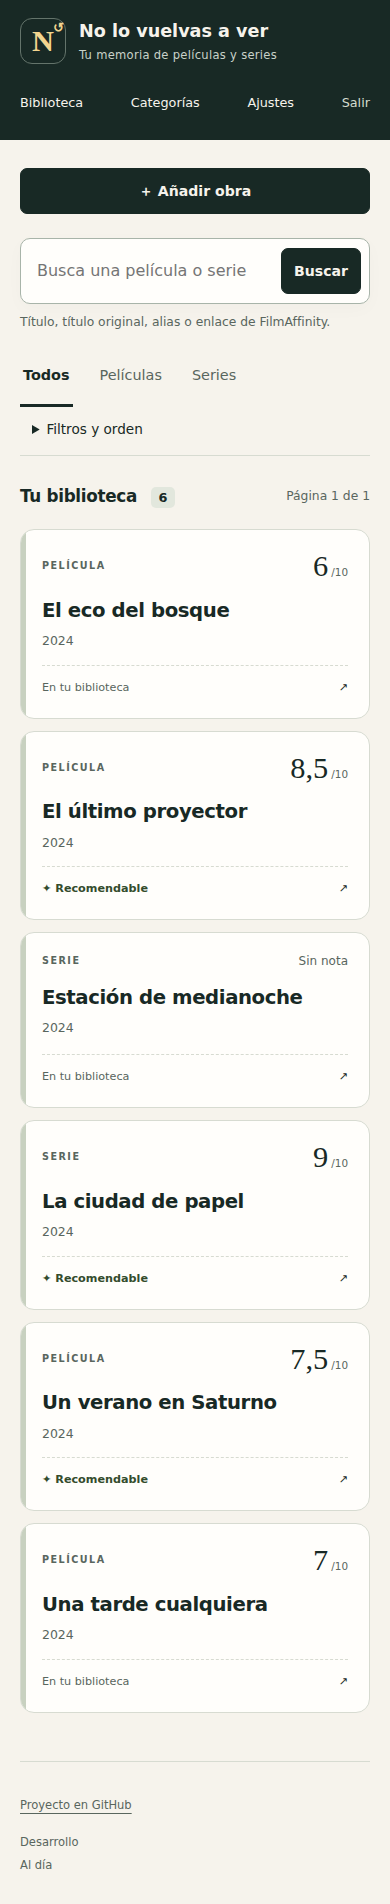
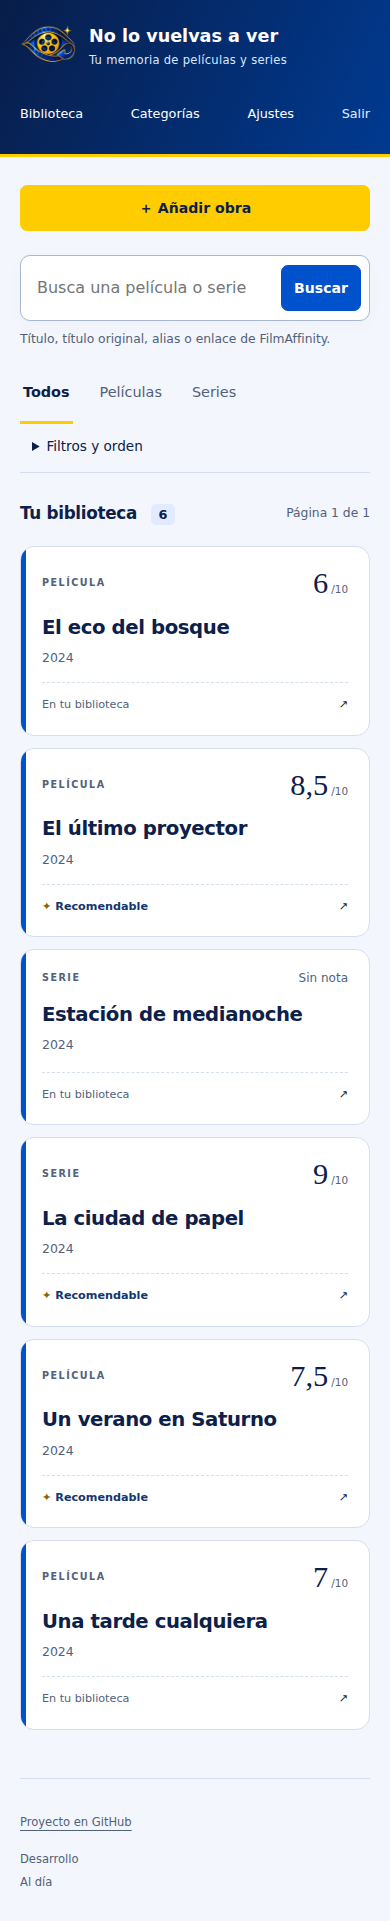
docs: capturas y resultados de la nueva identidad visual

diff --git a/docs/verificacion.md b/docs/verificacion.md
@@ -1,6 +1,14 @@
 # Verificación de la primera versión
 
-Comprobaciones ejecutadas el 11 de octubre de 2026 en un entorno Linux amd64 con Python 3.12.14, Docker Engine y Compose v2. No representan una prueba en un NAS concreto ni una publicación en GHCR.
+Comprobaciones ejecutadas el 11 y 12 de octubre de 2026 en un entorno Linux amd64 con Python 3.12.14, Docker Engine y Compose v2. No representan una prueba en un NAS concreto ni una publicación en GHCR.
+
+## Icono y paleta cinematográfica
+
+El 12 de octubre se sustituyó la marca de letra por un icono original generado para la aplicación: ojo, bobina y cinta de cine en azul y amarillo. Cabecera y favicon utilizan PNG locales con transparencia, de 256 × 256 (72.869 bytes) y 64 × 64 (7.405 bytes). Se eliminó «Hay historias que se quedan» y se simplificó el acceso.
+
+Lint y comprobación del diff pasan. Se midió el contraste de las combinaciones principales: blanco/azul de botones **6,82:1**, azul oscuro/amarillo **10,51:1**, texto secundario/fondo **5,78:1** y blanco/azul de cabecera **10,43:1**. Todas superan 4,5:1 para texto normal. Estas mediciones no sustituyen la revisión de teclado y foco del navegador.
+
+La [ejecución completa de Controles](https://github.com/kadyto/no-lo-vuelvas-a-ver/actions/runs/38307250060) del commit `2193ee82031c22318c1b96f27a52494fa2af4e51` terminó correctamente: **125 pruebas pasan en amd64 (11,77 s) y arm64 (9,22 s)**; lint, lock, ambos Compose, imágenes normales y desde archivo, smoke de acceso/persistencia/backup/UID-GID y revisión del archivo público pasan. El navegador de amd64 pasó acceso, carga del icono/favicon local y todos los flujos de escritorio y móvil, sin desplazamiento horizontal. Las capturas del README y del acceso corresponden a esa ejecución con datos ficticios.
 
 ## Aviso de actualizaciones e inicio compacto
 

diff --git a/README.md b/README.md
@@ -19,7 +19,7 @@ No se incluye una biblioteca precargada. Las capturas y pruebas usan datos ficti
 
 ![Biblioteca con seis obras ficticias](docs/ejemplo-escritorio.png)
 
-[Ver captura móvil con datos ficticios](docs/ejemplo-movil.png)
+[Ver captura móvil con datos ficticios](docs/ejemplo-movil.png) · [Ver pantalla de acceso](docs/ejemplo-acceso.png)
 
 ## Instalar en Docker o NAS
 
